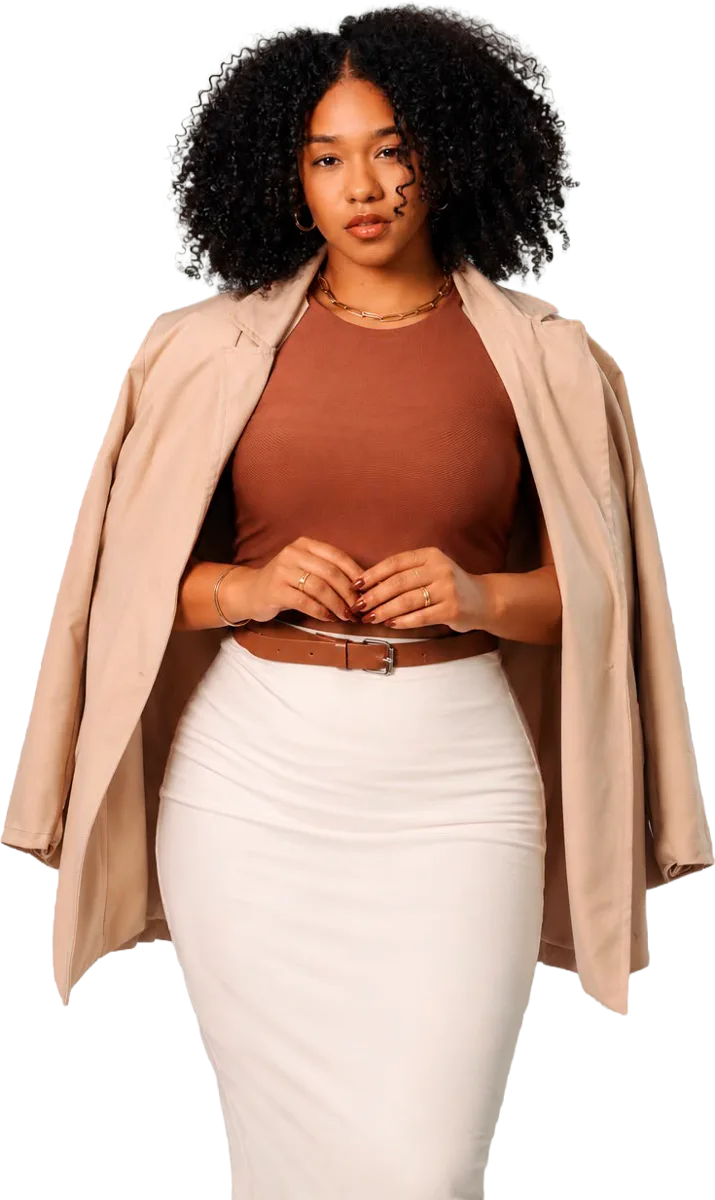
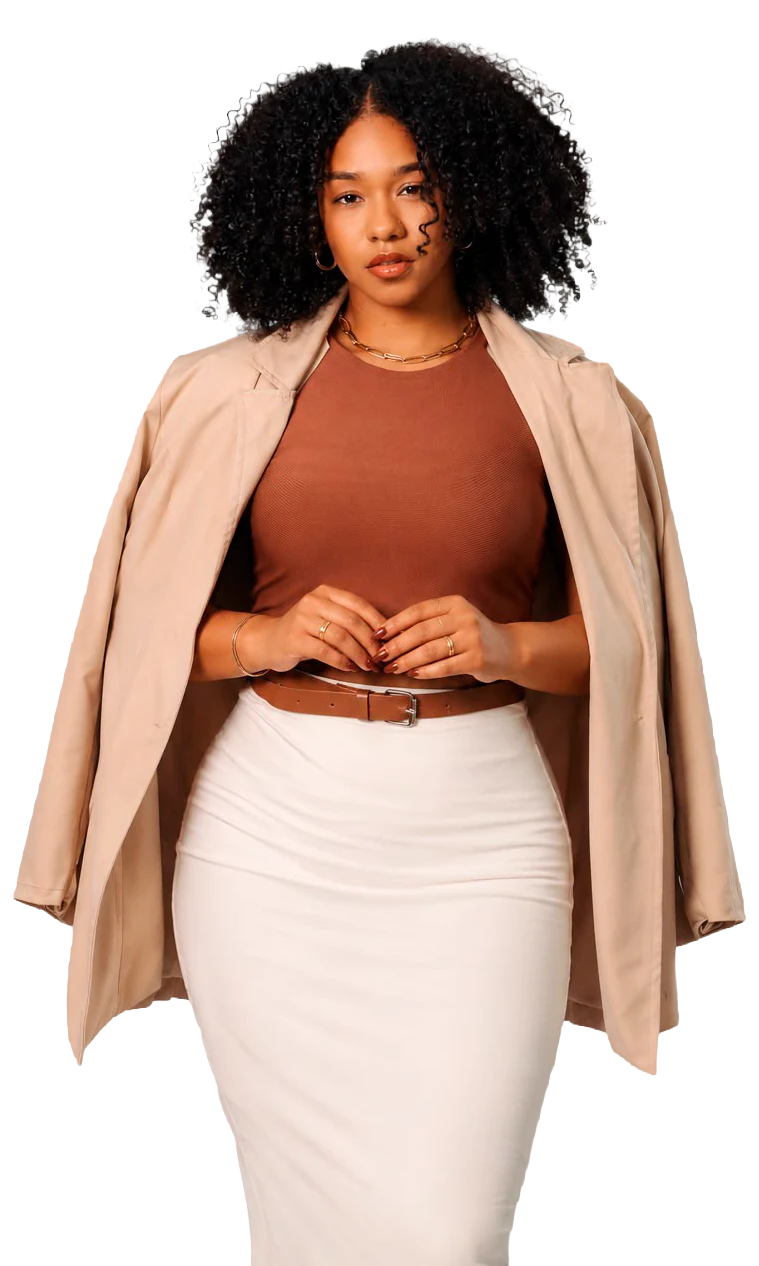
Add real courses and update hero photo
- Replace hero photo with transparent-background version
- Replace example courses with Design Personalizado and Cílios
- Show 'Consultar valores' and hide empty fields when a course has no price or details
- Let the open course grow with its content on mobile
- Fix course tags invisible in dark mode and make price readable

diff --git a/js/site.js b/js/site.js
@@ -81,7 +81,7 @@ function drawCourses() {
 
   $('#acc').innerHTML = list.map((x, i) => {
     const im = x.img || c.img;
-    const msg = 'Olá! Quero participar do curso ' + x.name;
+    const msg = +x.price > 0 ? 'Olá! Quero participar do curso ' + x.name : 'Olá! Quero saber os valores e as próximas turmas do ' + x.name + '.';
     return `
     <div class="p ${i === S.open ? 'open' : ''}" data-act="openCourse" data-i="${i}">
       <div class="bg" ${bgImg(im)} data-grad="linear-gradient(160deg,${COURSE_BG[i % 3]})"></div>
@@ -92,10 +92,10 @@ function drawCourses() {
         </span>
         <h3>${esc(x.name)}</h3>
         <div>${esc(x.desc)}</div>
-        <small><b>Conteúdo:</b> ${esc(x.prog).replace(/\n/g, ' · ')}</small>
-        <small><b>Pagamento:</b> ${esc(x.pay)}</small>
-        <small><b>Inscrição:</b> ${esc(x.info)}</small>
-        <div><span class="price">${brl(x.price)}</span> &nbsp;<a class="btn s" target="_blank" rel="noopener" href="${waLink(c.wa, msg)}">Quero participar</a></div>
+        ${x.prog ? `<small><b>Conteúdo:</b> ${esc(x.prog).replace(/\n/g, ' · ')}</small>` : ''}
+        ${x.pay ? `<small><b>Pagamento:</b> ${esc(x.pay)}</small>` : ''}
+        ${x.info ? `<small><b>Inscrição:</b> ${esc(x.info)}</small>` : ''}
+        <div>${+x.price > 0 ? `<span class="price">${brl(x.price)}</span> &nbsp;` : ''}<a class="btn s" target="_blank" rel="noopener" href="${waLink(c.wa, msg)}">${+x.price > 0 ? 'Quero participar' : 'Consultar valores'}</a></div>
       </div>
     </div>`;
   }).join('');

diff --git a/js/data.js b/js/data.js
@@ -31,9 +31,21 @@ const DEF = {
   ],
 
   courses: [
-    { id: 'c1', name: 'Design Profissional', desc: 'Do mapeamento à finalização.', prog: 'Visagismo\nMapeamento\nTécnicas de design', mode: 'Presencial', dur: '16h', price: 1200, pay: 'Pix ou até 6x no cartão', info: 'Vagas limitadas. Fale pelo WhatsApp.', img: '', on: true, excl: false },
-    { id: 'c2', name: 'Henna Avançada', desc: 'Colorimetria e fixação.', prog: 'Colorimetria\nAplicação', mode: 'Presencial', dur: '8h', price: 700, pay: 'Pix ou cartão', info: 'Turmas mensais.', img: '', on: true, excl: true },
-    { id: 'c3', name: 'Lamination Pro', desc: 'Técnica completa.', prog: 'Preparo\nLaminação', mode: 'Online', dur: '6h', price: 500, pay: 'Pix ou cartão', info: 'Acesso por 12 meses.', img: '', on: true, excl: false }
+    {
+      id: 'c1', name: 'Design Personalizado',
+      desc: 'Curso de sobrancelhas com teoria e prática. Não precisa ter experiência.',
+      prog: 'Visagismo e mapeamento\nDesign com pinça e linha\nHenna\nCertificado e kit iniciante',
+      mode: 'Presencial', dur: '1 dia, 8 horas', price: 600,
+      pay: 'PIX ou cartão', info: '',
+      img: '', on: true, excl: false
+    },
+    {
+      id: 'c2', name: 'Curso de Cílios',
+      desc: 'Curso presencial de cílios em dois dias de imersão.',
+      prog: '', mode: 'Presencial', dur: '2 dias, 16 horas', price: '',
+      pay: '', info: 'Fale pelo WhatsApp para saber valores e próximas turmas.',
+      img: '', on: true, excl: false
+    }
   ],
 
   feedbacks: [

diff --git a/css/sections.css b/css/sections.css
@@ -77,6 +77,8 @@
 .in h3 { font-size: 44px; color: #fff; }
 .in div, .in small { color: #EDE6D9; }
 .in small { font-size: 14px; display: block; }
+.in .price { color: #d9c2a3; }   /* preço legível sobre a foto escura */
+.in .tag { background: #DDD2BF; color: #342519; }   /* mesmas cores no modo claro e escuro (o card é sempre escuro) */
 
 .ar {
   position: absolute; top: 50%; z-index: 5; width: 46px; height: 46px; border-radius: 50%;
@@ -123,9 +125,11 @@
 @media (max-width: 800px) {
   .hero { grid-template-columns: 1fr; }
   .portrait { max-width: 320px; }
-  .acc { flex-direction: column; }   /* mantém a altura de 580px: o curso aberto ocupa o espaço que sobra */
+  /* no celular o curso aberto cresce com o conteúdo: a foto fica no topo e o texto embaixo */
+  .acc { flex-direction: column; height: auto; }
+  .p.open { flex: none; height: auto; min-height: 476px; }
+  .p.open .in { position: relative; padding-top: 220px; }
   .p { flex: none; height: 92px; transition: height .7s cubic-bezier(.7, 0, .2, 1); }
-  .p.open { height: 660px; }
   .ar { display: none; }
   .in h3 { font-size: 34px; }
   .dark section { padding-left: 6vw; padding-right: 6vw; }

diff --git a/js/admin.js b/js/admin.js
@@ -138,7 +138,7 @@ function viewBookings() {
    gravado no banco ao clicar em Salvar). */
 const ITEM = {
   services: { one: 'serviço', title: x => x.name, sub: x => [x.cat, brl(x.price), durText(x)] },
-  courses: { one: 'curso', title: x => x.name, sub: x => [x.mode, x.dur, brl(x.price)] },
+  courses: { one: 'curso', title: x => x.name, sub: x => [x.mode, x.dur, +x.price > 0 ? brl(x.price) : 'valor sob consulta'] },
   banners: { one: 'banner', title: x => x.title, sub: x => [x.from && x.to ? `${brDate(x.from)} a ${brDate(x.to)}` : x.from ? 'desde ' + brDate(x.from) : x.to ? 'até ' + brDate(x.to) : 'sem data'] },
   feedbacks: { one: 'feedback', title: x => x.handle, sub: x => [x.role, x.media ? (x.mt === 'video' ? 'com vídeo' : 'com print') : ''] }
 };
